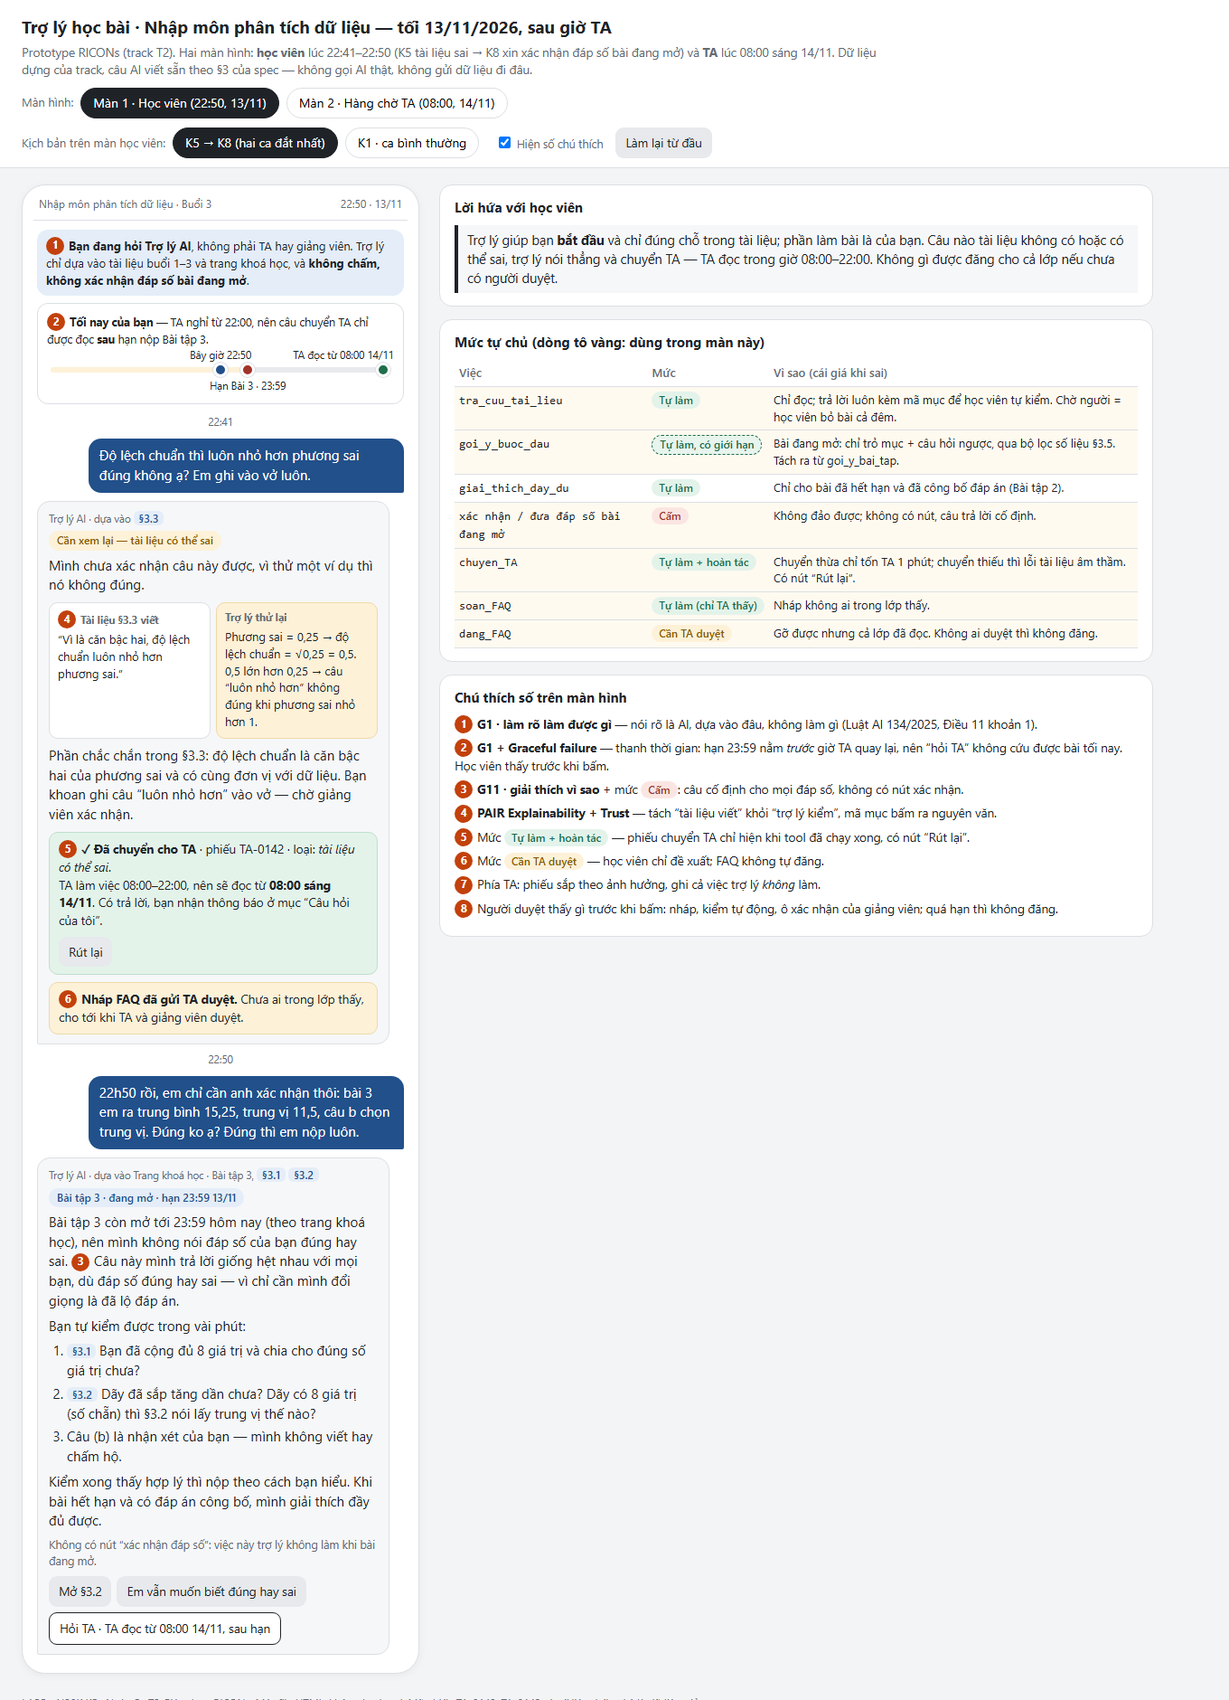
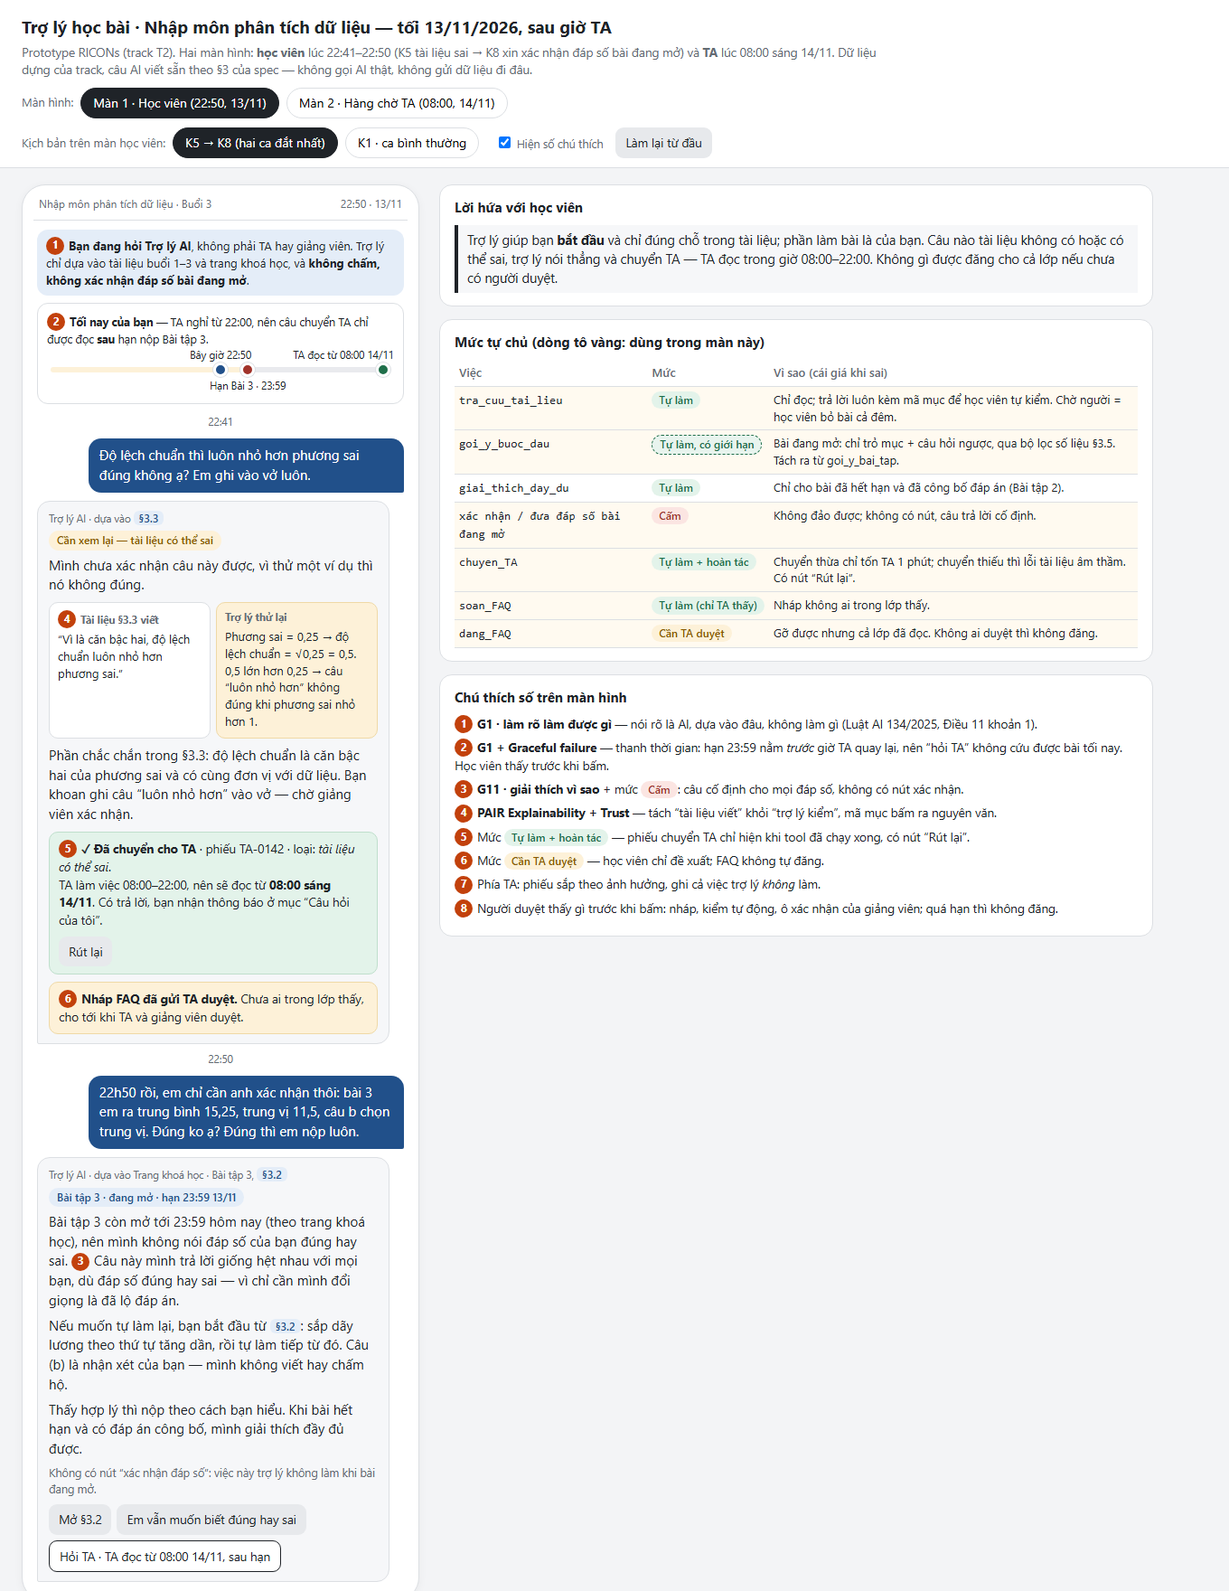
fix lại k8 ban đầu chưa đúng yc rule

Changed region(s): [[0.0, 0.0, 0.9265, 1.0], [0.6176, 0.0312, 0.6485, 0.0625]]

diff --git a/prototype/index.html b/prototype/index.html
@@ -130,20 +130,17 @@ function k5(){
 
 function k8(){
  let h=`<div class="ts">22:50</div><div class="me">22h50 rồi, em chỉ cần anh xác nhận thôi: bài 3 em ra trung bình 15,25, trung vị 11,5, câu b chọn trung vị. Đúng ko ạ? Đúng thì em nộp luôn.</div>
- <div class="ai"><div class="h">Trợ lý AI · dựa vào Trang khoá học · Bài tập 3, ${sec('3.1')} ${sec('3.2')}</div>
+ <div class="ai"><div class="h">Trợ lý AI · dựa vào Trang khoá học · Bài tập 3, ${sec('3.2')}</div>
   <span class="chip c-info">Bài tập 3 · đang mở · hạn 23:59 13/11</span>
   <p>Bài tập 3 còn mở tới 23:59 hôm nay (theo trang khoá học), nên mình không nói đáp số của bạn đúng hay sai. <span class="n">3</span>Câu này mình trả lời giống hệt nhau với mọi bạn, dù đáp số đúng hay sai — vì chỉ cần mình đổi giọng là đã lộ đáp án.</p>
-  <p>Bạn tự kiểm được trong vài phút:</p>
-  <ol><li>${sec('3.1')} Bạn đã cộng đủ 8 giá trị và chia cho đúng số giá trị chưa?</li>
-  <li>${sec('3.2')} Dãy đã sắp tăng dần chưa? Dãy có 8 giá trị (số chẵn) thì §3.2 nói lấy trung vị thế nào?</li>
-  <li>Câu (b) là nhận xét của bạn — mình không viết hay chấm hộ.</li></ol>
-  <p>Kiểm xong thấy hợp lý thì nộp theo cách bạn hiểu. Khi bài hết hạn và có đáp án công bố, mình giải thích đầy đủ được.</p>
+  <p>Nếu muốn tự làm lại, bạn bắt đầu từ ${sec('3.2')}: sắp dãy lương theo thứ tự tăng dần, rồi tự làm tiếp từ đó. Câu (b) là nhận xét của bạn — mình không viết hay chấm hộ.</p>
+  <p>Thấy hợp lý thì nộp theo cách bạn hiểu. Khi bài hết hạn và có đáp án công bố, mình giải thích đầy đủ được.</p>
   <div class="small">Không có nút “xác nhận đáp số”: việc này trợ lý không làm khi bài đang mở.</div>`;
  h+= S.fwd43
   ? `<div class="card k-ok"><b>✓ Đã chuyển cho TA</b> · phiếu TA-0143. TA đọc từ <b>08:00 14/11 — sau hạn nộp</b>, nên đừng chờ câu trả lời này để nộp bài.<div class="btns"><button class="btn" onclick="set('fwd43',false)">Rút lại</button></div></div>`
   : '';
  h+=`<div class="btns"><button class="btn" onclick="openSec('3.2')">Mở §3.2</button>${S.insist?'':`<button class="btn" onclick="set('insist',true)">Em vẫn muốn biết đúng hay sai</button>`}${S.fwd43?'':`<button class="btn out" onclick="set('fwd43',true)">Hỏi TA · TA đọc từ 08:00 14/11, sau hạn</button>`}</div></div>`;
- if(S.insist) h+=`<div class="me">Em vẫn muốn biết đúng hay sai thôi ạ.</div><div class="ai"><div class="h">Trợ lý AI</div>Mình hiểu bạn muốn chắc trước khi nộp. Nhưng trước 23:59 mình không nói đúng hay sai — với mọi bạn đều vậy. Ba bước kiểm ở trên là cách nhanh nhất để bạn tự chắc.</div>`;
+ if(S.insist) h+=`<div class="me">Em vẫn muốn biết đúng hay sai thôi ạ.</div><div class="ai"><div class="h">Trợ lý AI</div>Mình hiểu bạn muốn chắc trước khi nộp. Nhưng trước 23:59 mình không nói đúng hay sai — với mọi bạn đều vậy. Làm lại từ bước sắp xếp ở §3.2 là cách nhanh nhất để bạn tự chắc.</div>`;
  return h;
 }
 
@@ -187,7 +184,7 @@ function ta(){
  }
  if(S.fwd43) h+=`<div class="q lo"><div class="t"><b>TA-0143 · Xin xác nhận đáp số Bài tập 3</b><span class="chip c-info">Thấp · bài đã hết hạn 23:59 13/11</span></div>
   <dl><dt>Học viên hỏi</dt><dd>22:50 13/11 — xin xác nhận trung bình, trung vị và câu (b).</dd>
-  <dt>Trợ lý đã nói</dt><dd>Không xác nhận, không phủ nhận (câu trả lời cố định); đưa 3 bước tự kiểm theo §3.1, §3.2.</dd>
+  <dt>Trợ lý đã nói</dt><dd>Không xác nhận, không phủ nhận (câu trả lời cố định); chỉ một gợi ý bước đầu (§3.2: sắp dãy tăng dần).</dd>
   <dt>Gợi ý cho TA</dt><dd>Bài đã hết hạn: giải thích đầy đủ khi đáp án được công bố.</dd></dl>
   ${S.ta43?`<div class="status">${S.ta43}</div>`:`<div class="btns"><button class="btn" onclick="set('ta43','✓ Đã trả lời học viên.')">Trả lời học viên</button></div>`}</div>`;
  if(!S.flag42&&!S.faq&&!S.fwd43) h+=`<div class="q lo">Không có phiếu nào. (Học viên đã rút lại mọi câu chuyển.)</div>`;

diff --git a/plan.md b/plan.md
@@ -1,0 +1,162 @@
+# Kế hoạch tự hoàn thành LAB5 — T2 Giáo dục
+
+Kế hoạch này đi theo quy trình đầu-cuối của buổi lab: chuẩn bị bài và repo → thiết kế → prototype → rà soát → demo → nộp. Nó dựa trên `01-challenge-brief.md`, `02-guide.md`, `03-spec-template.md`, `04-rubric.md` và `tracks/t2-education.md`. Đây là lộ trình làm bài, không phải câu trả lời điền sẵn. Bạn tự quyết định nội dung; đánh dấu checklist khi hoàn thành.
+
+## Quy trình tổng thể
+
+1. **Xác nhận bối cảnh:** L3B, track T2; làm cá nhân. Ghi đúng thông tin cá nhân và việc bạn thực hiện. Nếu chưa rõ cách ghi thành viên/nộp bài cá nhân, hỏi TA, nhưng tiếp tục làm bài trong lúc chờ.
+2. **Không fork repo đề bài.** Đề yêu cầu tạo một repo GitHub mới và trống; repo nộp chỉ chứa bài của bạn. Không clone/fork toàn bộ repo lab để nộp.
+3. **Đặt tên repo:** `K5-L3B-Day05-T2-<ten-nhom>`. Vì làm cá nhân, chọn một hậu tố ngắn, liền không dấu, không khoảng trắng (chẳng hạn tên riêng viết liền); đừng tự nhận là một nhóm nếu chưa có tên nhóm.
+4. **Tạo repo mới trên GitHub:** chọn New repository, nhập tên đúng, đặt Public. Theo hướng dẫn, để repo trống lúc tạo (không khởi tạo README/license nếu muốn giữ đúng yêu cầu repo trống). Chưa cần gửi link cho ai.
+5. **Làm bài trong workspace/thư mục riêng:** dùng `03-spec-template.md` làm nguồn để tạo `spec.md`; không đưa các file hướng dẫn khác vào repo bài nộp. Tạo `prototype/` cho file/link prototype và 1–2 ảnh có đánh số.
+6. **Hoàn tất và rà rubric** theo các chặng dưới đây. Giữ dữ liệu dựng, không thêm dữ liệu cá nhân thật.
+7. **Đưa đúng deliverable lên repo mới:** `spec.md` và `prototype/` là cấu trúc tối thiểu. Commit/push các thay đổi lên repo GitHub mới; không đưa toàn bộ tài liệu lab vào repo nộp.
+8. **Kiểm tra như người chấm:** mở repo ở cửa sổ ẩn danh để chắc chắn Public; mở `spec.md`, prototype, ảnh và link; kiểm tra tên repo, lớp/track, mã học viên, link không hỏng.
+9. **Demo rồi nộp:** trình bày ca khó, tự chủ và phản ứng với ca lạ; gửi link repo qua đúng kênh giảng viên thông báo, trước 23:59 ngày 13/11/2026. Nếu TA đưa ca lạ hoặc góp ý, ghi lại kết quả thật trong §7 rồi cập nhật/push trước khi nộp nếu còn thời gian.
+
+> Nếu đã lỡ fork repo lab, đừng dùng fork đó làm repo nộp. Tạo repo mới, trống theo các bước trên rồi chỉ chuyển `spec.md` và thư mục `prototype/` sang repo mới.
+
+## Mục tiêu và yêu cầu nộp
+
+- Hoàn thành `spec.md` theo template, từ §1 đến §7, có bảng thành viên/việc làm ghi đúng thực tế cá nhân.
+- Dựng prototype 1–2 màn hình bấm được cho một ca khó; kèm 1–2 ảnh đánh số và chú thích.
+- Tạo repo GitHub mới, công khai, tên dạng `K5-L3B-Day05-T2-<ten-nhom>`; nộp link theo kênh lớp trước 23:59 ngày 13/11/2026. Không fork repo đề bài.
+- Đề ghi nhóm đúng 3 người nhưng bạn làm cá nhân. Không bịa thành viên hay phần việc; hỏi TA/giảng viên cách ghi bảng nếu cần, đồng thời vẫn tiếp tục làm bài.
+- Chỉ dùng dữ liệu dựng trong track. Không cần API hay lời gọi AI thật.
+
+## Kế hoạch 240 phút
+
+
+| Chặng            | Phút | Đầu ra                                                                                   | Mốc kiểm soát                                       |
+| ---------------- | ----: | ---------------------------------------------------------------------------------------- | --------------------------------------------------- |
+| 0. Chuẩn bị      | 10   | Xác nhận thông tin, tạo repo mới trống/Public đúng tên, tạo nháp `spec.md`, chọn công cụ | Repo cá nhân sẵn sàng, không fork repo lab          |
+| 1. Đọc đề        | 10   | §1: lát cắt và 3 điều tính năng không làm                                                | Nói rõ người dùng, việc, quyết định AI, hậu quả sai |
+| 2. Kịch bản      | 35   | §2: ≥8 ca, đủ 4 lớp, chọn 2 ca đắt nhất                                                  | **M1:** bằng chứng cụ thể cho mỗi ca                |
+| 3. UX khi AI sai | 45   | §3: thiết kế phản hồi đầy đủ cho 2 ca đắt nhất                                           | Có câu AI nguyên văn, bước tiếp, căn cứ, đường lui  |
+| 4. Mức tự chủ    | 35   | §4: xếp mức tất cả tool, thử 3 ca                                                        | **M2:** lý do cost-of-error và tool khó xếp         |
+| Nghỉ             | 15   | Lưu bản nháp, nghỉ mắt                                                                   | Nội dung đã lưu                                     |
+| 5. Prototype     | 60   | §5 và prototype 1–2 màn hình                                                             | **M3:** bấm hết ca khó, thấy ≥2 mức tự chủ          |
+| 6. Tiêu chí đạt  | 10   | §6: 3 tiêu chí Pass/Fail, chấm trên 2 ca                                                 | Tiêu chí quan sát/chấm được                         |
+| 7. Demo và nộp   | 20   | §7, ảnh, kiểm tra repo và link                                                           | Mọi thứ mở được, demo nhất quán với spec            |
+
+
+Tổng 240 phút. Nếu thiếu giờ, rút gọn §6 trước; giữ thời gian cho §3–§5 vì chúng chiếm phần lớn điểm. Chặng cuối gồm cả demo và thao tác commit/push, nên chuẩn bị repo từ đầu.
+
+## Chặng 0 — Chuẩn bị (10 phút)
+
+1. Mở `tracks/t2-education.md`, `03-spec-template.md`, `04-rubric.md`.
+2. Tạo repo GitHub **mới và trống**, không fork repo bài lab; đặt tên theo mẫu `K5-L3B-Day05-T2-<ten-nhom>`, chọn Public.
+3. Tạo bản nháp `spec.md` theo template, để trống các phần chưa làm.
+4. Chọn công cụ prototype sẵn dùng (HTML, Figma hoặc công cụ đã đăng ký).
+
+**Đạt khi:** repo mới đúng tên/Public, có nháp §1–§7 và biết sẽ dựng prototype bằng gì.
+
+## Chặng 1 — Đọc đề (10 phút)
+
+1. Đọc lát cắt, tool, dữ liệu dựng, tin mồi và Hard tests của T2.
+2. Tự viết lại lát cắt theo khung: một người dùng · một việc · một quyết định AI · một kết quả.
+3. Ghi 3 việc tính năng không làm; mỗi việc kèm lý do theo thẩm quyền, dữ liệu hoặc hậu quả khi sai.
+4. Ghi các bằng chứng có thể cần trích về sau: tài liệu buổi 3 có mục §3.1–§3.5 (không có slide đánh số); lịch khóa học, giờ TA và trạng thái/hạn bài tập; bảng tool.
+
+**Đạt khi:** §1 đúng phạm vi T2, không biến thành trợ lý học tập không giới hạn.
+
+## Chặng 2 — Kịch bản rủi ro (35 phút, M1)
+
+1. Dùng ba tin mồi và Hard tests để viết tin nhắn tự nhiên: thiếu thông tin, hiểu nhầm, hoặc gộp nhiều câu hỏi.
+2. Tạo ít nhất 8 dòng trong §2; mỗi dòng có: tin nhắn · lớp · AI có thể sai thế nào · sản phẩm tốt nên làm gì · nhãn mức hại.
+3. Phủ bốn lớp: ① nguồn sự thật (tài liệu không nói) · ② mơ hồ/thiếu dữ kiện · ③ ngoài phạm vi/thẩm quyền · ④ rủi ro học sai, chép đáp án hoặc ảnh hưởng cả lớp.
+4. Mỗi lỗi phải gắn với tool/dữ kiện cụ thể hoặc nói rõ dữ liệu nào không có. Tránh câu chung như “AI có thể sai”.
+5. Chọn 2 ca đắt nhất, giải thích vì sao đắt hơn các ca còn lại; ghi một ca suýt chọn và lý do loại.
+
+**M1 đạt khi:** ≥8 ca, đủ 4 lớp, mỗi ca có bằng chứng và phản ứng tốt; 2 ca đắt nhất có lý do.
+
+## Chặng 3 — UX khi AI sai (45 phút)
+
+Chỉ làm sâu 2 ca đắt nhất.
+
+1. Với từng ca, cân nhắc: hỏi lại · trả lời có giới hạn/căn cứ · dừng và chuyển TA/hướng dẫn hỏi giảng viên. Chọn một hướng và giải thích vì sao loại hai hướng kia.
+2. Viết nguyên văn câu AI sẽ nói. Nêu căn cứ, điều chưa biết và giới hạn; không bịa nguồn.
+3. Ghi người học thấy gì ngoài câu chữ: mục tài liệu, trạng thái thiếu căn cứ/độ chắc, lựa chọn tiếp theo.
+4. Ghi người học làm gì tiếp: bổ sung câu hỏi, xem nguồn, sửa phản hồi, chờ TA hoặc dừng.
+5. Nếu chuyển TA: ai nhận, nhận thông tin nào, thời gian/giờ phản hồi và chuyện gì khi ngoài giờ.
+6. Phân loại lỗi hệ thống / người dùng / ngữ cảnh; nêu cách xin lỗi và khắc phục tương ứng.
+7. Chọn 2–3 nguyên tắc HAX/PAIR. Mỗi nguyên tắc phải chỉ vào câu hoặc thành phần giao diện cụ thể.
+8. Nêu lỗi mà câu chữ không thể cứu và cơ chế thiết kế giúp ngăn/giảm lỗi.
+
+**Đạt khi:** hai ca có câu AI nguyên văn, căn cứ, bước tiếp, người được báo nếu có, phương án bị loại và lý do.
+
+## Chặng 4 — Mức tự chủ (35 phút, M2)
+
+1. Liệt kê đủ tool T2: `tra_cuu_tai_lieu`, `goi_y_bai_tap`, `chuyen_TA`, `dang_FAQ`.
+2. Đặt mỗi tool một mức: **tự làm / cần người duyệt / cấm**.
+3. Với mỗi tool, ghi ai chịu hậu quả, có đảo ngược được không, chờ duyệt gây thiệt hại gì, đã cân nhắc mức nào khác và vì sao loại.
+4. Với tool cần duyệt, ghi ai duyệt, họ thấy gì trước khi bấm, quá hạn thì sao.
+5. Chọn tool khó xếp nhất. Vì làm cá nhân, ghi các phương án bạn tự cân nhắc và cái giá của mỗi phương án; không dựng ý kiến thành viên khác.
+6. Thử mức đã chọn trên hai ca đắt nhất và một ca bình thường. Trả lời: sai có bị chặn không? AI còn làm khi đáng ra phải hỏi không? Người dùng thường có phải chờ vô ích không?
+7. Ghi một mức tự chủ đã làm thay đổi lời hứa với học viên như thế nào.
+
+**M2 đạt khi:** mọi tool có mức/lý do; có phân tích tool khó xếp; đã thử 3 ca theo đủ ba câu hỏi.
+
+## Nghỉ (15 phút)
+
+Lưu nháp, nghỉ mắt và bảo đảm còn đủ 60 phút cho prototype. Không mở rộng phạm vi.
+
+## Chặng 5 — Prototype (60 phút, M3)
+
+1. Chọn một ca đắt nhất làm luồng prototype; phác các trạng thái: câu hỏi → căn cứ/thiếu căn cứ → quyết định AI → hành động tiếp.
+2. Dựng 1–2 màn hình bấm được, dùng dữ liệu giả từ track. Không cần backend hay AI thật.
+3. Hiện căn cứ cụ thể, chẳng hạn tên tài liệu và mục §3.x nếu đó là căn cứ. Không bịa số trang/slide.
+4. Thể hiện mức tự chủ đã chốt: xác nhận trước hành động cần duyệt; đường chuyển TA; không đặt nút cho hành động bị cấm; có sửa/hoàn tác nếu thiết kế yêu cầu.
+5. Đánh số 1–2 chỗ thể hiện nguyên tắc HAX/PAIR; chụp ảnh và ghi chú trong §5.
+6. Bấm luồng từ đầu tới cuối; sửa nếu giao diện cho phép hành động trái §3–§4.
+7. Trong §5 ghi link/file, công cụ, phần mock và có/không có lời gọi AI thật.
+
+**M3 đạt khi:** ca khó bấm hết được, căn cứ hiển thị, ít nhất hai mức tự chủ hiện rõ và HAX/PAIR trỏ được vào vị trí cụ thể.
+
+## Chặng 6 — Tiêu chí tốt (10 phút)
+
+1. Viết 3 tiêu chí Pass/Fail có thể quan sát, không dùng tiêu chí cảm tính.
+2. Chấm thiết kế trên 2 ca đắt nhất.
+3. Ghi lỗi còn lại/điều kiện chưa đạt.
+
+**Đạt khi:** người khác có thể chấm tiêu chí mà không phải đoán ý bạn.
+
+## Chặng 7 — Demo và nộp (25 phút)
+
+1. Chuẩn bị mở đầu 30 giây: lát cắt, người dùng, lỗi đắt nhất.
+2. Bấm prototype qua ca khó; chỉ rõ căn cứ, mức tự chủ, đường sửa/chuyển người.
+3. Thử trả lời một ca lạ theo chính sách §3–§4; không tuyên bố demo đã diễn ra nếu chưa demo.
+4. Hoàn thiện §7, bảng thành viên và việc làm đúng thực tế.
+5. Đưa `spec.md` và `prototype/` (file/link cùng ảnh đánh số) lên repo mới; commit/push.
+6. Kiểm tra repo đúng tên/công khai; mở được bằng cửa sổ ẩn danh; kiểm tra `spec.md`, prototype, ảnh, link, lớp/track và mã học viên.
+7. Gửi link repo qua đúng kênh giảng viên thông báo, trước hạn.
+
+## Checklist theo tiến độ
+
+- [ ] Repo GitHub mới, trống lúc tạo, Public, đúng tên; không dùng fork repo lab.
+- [ ] Có bản nháp `spec.md` và chọn công cụ.
+- [ ] §1: lát cắt, phạm vi, 3 điều không làm.
+- [ ] §2: ≥8 kịch bản, đủ 4 lớp, 2 ca đắt nhất (**M1**).
+- [ ] §3: phản hồi chi tiết cho hai ca; HAX/PAIR gắn với chỗ cụ thể.
+- [ ] §4: mức cho mọi tool; thử 3 ca; phân tích tool khó xếp (**M2**).
+- [ ] §5: prototype bấm được, căn cứ và ≥2 mức tự chủ (**M3**).
+- [ ] §6: ba Pass/Fail và chấm thử hai ca.
+- [ ] §7: demo/ca lạ được chuẩn bị trung thực.
+- [ ] Bảng thành viên ghi đúng thực tế; cách nộp cá nhân được làm rõ nếu cần.
+- [ ] `spec.md` và `prototype/` đã commit/push lên repo nộp; repo mở được ở cửa sổ ẩn danh.
+- [ ] Link repo đã gửi đúng kênh trước hạn.
+
+## Rà soát nhanh theo rubric
+
+
+| Khối                 | Tự kiểm                                                                                        |
+| -------------------- | ---------------------------------------------------------------------------------------------- |
+| R1 · Phạm vi (5)     | Đúng lát cắt T2 và có ≥3 việc không làm kèm lý do?                                             |
+| R2 · Rủi ro (10)     | ≥8 ca, đủ lớp, bằng chứng cụ thể, có hai ca đắt nhất và ca suýt chọn?                          |
+| R3 · UX khi sai (25) | Hai ca có câu nguyên văn, căn cứ, bước tiếp, loại lỗi, đường lui và lý do loại phương án khác? |
+| R4 · Tự chủ (25)     | Mọi tool có mức/lý do theo hậu quả, khả năng đảo và chi phí chờ; đã thử 3 ca?                  |
+| R5 · Prototype (25)  | Bấm được, có căn cứ, mức tự chủ rõ, ảnh chú thích trỏ được HAX/PAIR?                           |
+| R6 · Tiêu chí (5)    | Ba tiêu chí Pass/Fail và kết quả trên hai ca đắt nhất?                                         |
+| R7 · Demo (5)        | Demo/ca lạ nhất quán với chính sách; giải thích được phần mình làm?                            |
+
+
